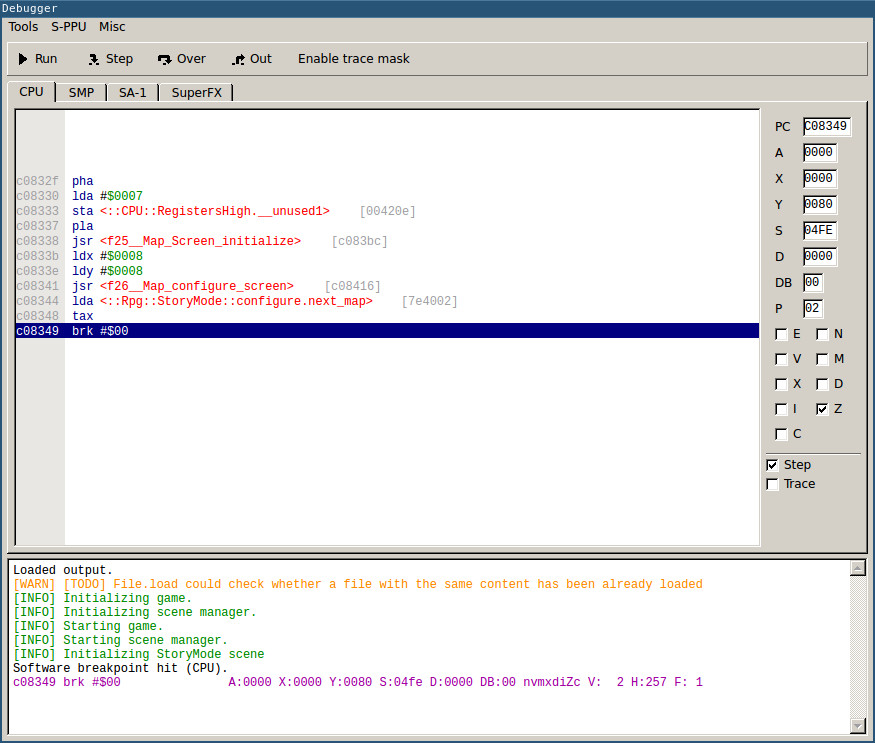
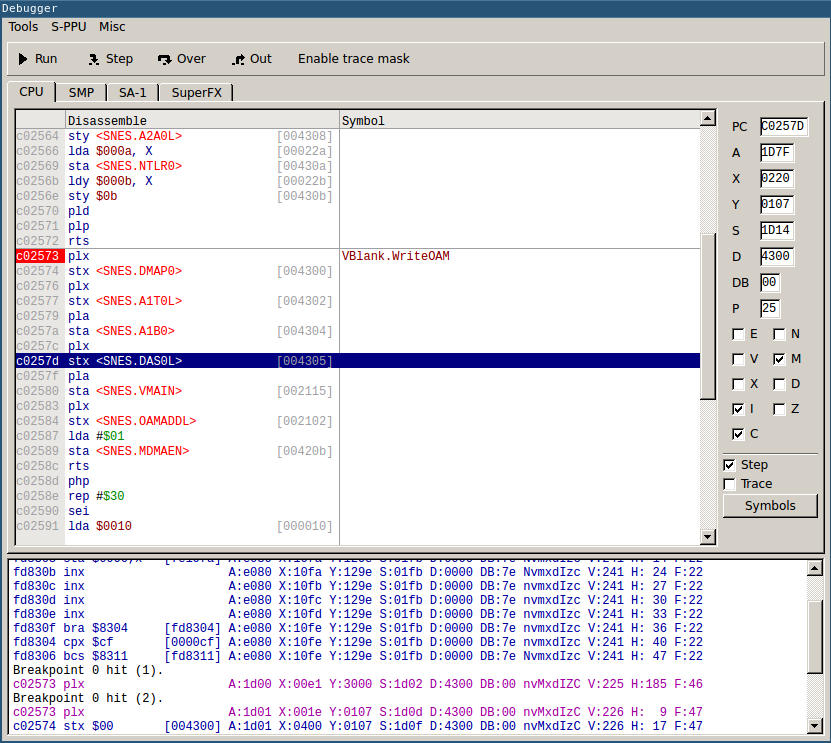
allow to resize columns in disassembler

Changed region(s): [[0.0, 0.0, 1.0, 1.0], [0.2708, 0.0619, 0.5114, 0.0929], [0.3309, 0.681, 0.3911, 0.712]]

diff --git a/bsnes/ui-qt/debugger/disassembler/disassemblerview.cpp b/bsnes/ui-qt/debugger/disassembler/disassemblerview.cpp
@@ -3,6 +3,7 @@
 // ------------------------------------------------------------------------
 DisassemblerView::DisassemblerView(DisasmProcessor *processor) : hasValidAddress(false), processor(processor) {
   setFont(QFont(Style::Monospace));
+  setMouseTracking(true);
 
   _addressAreaColor = this->palette().alternateBase().color();
   _selectionColor = this->palette().highlight().color();
@@ -17,10 +18,13 @@ DisassemblerView::DisassemblerView(DisasmProcessor *processor) : hasValidAddress
 void DisassemblerView::init() {
   verticalScrollBar()->setValue(0);
 
+  mouseState = NO_STATE;
   emptyRowsAround = 5;
   currentRangeStartAddress = 0;
   currentRangeEndAddress = 0;
   currentAddress = 0;
+  mouseX = 0;
+  mouseY = 0;
 }
 
 // ------------------------------------------------------------------------
@@ -29,10 +33,12 @@ void DisassemblerView::setFont(const QFont &font) {
 
   charWidth = fontMetrics().width(QLatin1Char('2'));
   charHeight = fontMetrics().height() + 1;
+  charPadding = charWidth / 2;
+  headerHeight = charHeight + 3;
   lineOffset = 3;
-  addressAreaSize = charWidth * 6 + charWidth;
-  opcodeAreaLeft = addressAreaSize + charWidth;
-  commentAreaLeft = opcodeAreaLeft + 70 * charWidth;
+
+  columnSizes[0] = charWidth * 6 + charWidth;
+  columnSizes[1] = columnSizes[0] + 30 * charWidth;
 
   adjust();
   viewport()->update();
@@ -44,6 +50,11 @@ void DisassemblerView::adjust() {
   if (rowsShown == 0) {
     rowsShown = 1;
   }
+
+  columnPositions[0] = 0;
+  columnPositions[1] = columnPositions[0] + columnSizes[0];
+  columnPositions[2] = columnPositions[1] + columnSizes[1];
+  columnSizes[2] = width() - columnPositions[2];
 }
 
 // ------------------------------------------------------------------------
@@ -58,6 +69,7 @@ void DisassemblerView::refresh(uint32_t address) {
 
   updateLines();
   viewport()->update();
+  updateCurrentMousePosition();
 }
 
 // ------------------------------------------------------------------------
@@ -116,31 +128,128 @@ void DisassemblerView::resizeEvent(QResizeEvent *) {
 }
 
 // ------------------------------------------------------------------------
+void DisassemblerView::toggleBreakpoint(uint32_t address) {
+  int32_t breakpoint = breakpointEditor->indexOfBreakpointExec(address, processor->getBreakpointBusName());
+
+  if (breakpoint >= 0) {
+    breakpointEditor->removeBreakpoint(breakpoint);
+  } else {
+    breakpointEditor->addBreakpoint(nall::hex(address), "x", processor->getBreakpointBusName());
+  }
+}
+
+// ------------------------------------------------------------------------
+void DisassemblerView::mouseReleaseEvent(QMouseEvent *event) {
+  switch (mouseState) {
+  case STATE_RESIZING_COLUMN:
+    mouseState = STATE_RESIZE_COLUMN;
+    mouseMoveEvent(event);
+    break;
+  }
+}
+
+// ------------------------------------------------------------------------
 void DisassemblerView::mousePressEvent(QMouseEvent * event) {
-  const QPoint pos = event->pos();
-  int32_t row = ((pos.y() - lineOffset + charHeight) / charHeight);
+  bool left = event->button() & Qt::LeftButton;
 
-  if (row < 0 || row >= lines.size()) {
-    return;
-  }
-
-  const DisassemblerLine &line = lines[row];
-  if (line.isEmpty()) {
-    return;
-  }
-
-  if (pos.x() < addressAreaSize && line.hasAddress()) {
-    int32_t breakpoint = breakpointEditor->indexOfBreakpointExec(line.address, processor->getBreakpointBusName());
-
-    if (breakpoint >= 0) {
-      breakpointEditor->removeBreakpoint(breakpoint);
-    } else {
-      breakpointEditor->addBreakpoint(nall::hex(line.address), "x", processor->getBreakpointBusName());
+  switch (mouseState) {
+  case STATE_RESIZE_COLUMN:
+    if (left) {
+      mouseState = STATE_RESIZING_COLUMN;
+      mouseStateValue2 = columnSizes[mouseStateValue];
     }
+    break;
+
+  case STATE_TOGGLE_BREAKPOINT:
+    if (left) {
+      toggleBreakpoint(mouseStateValue);
+    }
+    break;
   }
 
   viewport()->update();
 }
+
+// ------------------------------------------------------------------------
+void DisassemblerView::mouseMoveEvent(QMouseEvent *e) {
+  switch (mouseState) {
+  case STATE_RESIZING_COLUMN:
+    {
+      int32_t newSize = mouseStateValue2 + (e->x() - mouseX);
+      if (newSize < 10) {
+        newSize= 10;
+      }
+
+      columnSizes[mouseStateValue] = newSize;
+      adjust();
+      viewport()->update();
+    }
+    break;
+
+  default:
+    mouseX = e->x();
+    mouseY = e->y();
+    updateCurrentMousePosition();
+  }
+}
+
+// ------------------------------------------------------------------------
+void DisassemblerView::updateCurrentMousePosition() {
+  MouseState oldState = mouseState;
+  int32_t row = (mouseY - lineOffset + charHeight) / charHeight;
+
+  mouseState = NO_STATE;
+
+  if (mouseY < headerHeight) {
+    for (uint32_t i=1; i<NUM_COLUMNS; i++) {
+      if (mouseX < columnPositions[i] - 5 || mouseX > columnPositions[i] + 5) {
+        continue;
+      }
+
+      mouseState = STATE_RESIZE_COLUMN;
+      mouseStateValue = i - 1;
+      break;
+    }
+  } else if (row > 0 && row <= lines.size()) {
+    const DisassemblerLine &line = lines[row];
+
+    if (!line.isEmpty()) {
+      if (mouseX < columnSizes[COLUMN_ADDRESS]) {
+        if (line.hasAddress()) {
+          mouseState = STATE_TOGGLE_BREAKPOINT;
+          mouseStateValue = line.address;
+        }
+      } else if (mouseX >= columnPositions[COLUMN_COMMENT]) {
+        mouseState = STATE_SET_COMMENT;
+        mouseStateValue = line.address;
+      }
+    }
+  }
+
+  if (mouseState != oldState) {
+    switch (mouseState) {
+    case STATE_RESIZE_COLUMN:
+      setCursor(Qt::SplitHCursor);
+      break;
+
+    case STATE_TOGGLE_BREAKPOINT:
+      setCursor(Qt::PointingHandCursor);
+      break;
+
+    case NO_STATE:
+    default:
+      unsetCursor();
+      break;
+    }
+  }
+}
+
+#define SET_CLIPPING(region) \
+  painter.setClipping(true); \
+  painter.setClipRegion(QRect(columnPositions[region], 0, columnSizes[region], height()));
+
+#define NO_CLIPPING() \
+  painter.setClipping(false)
 
 // ------------------------------------------------------------------------
 void DisassemblerView::paintOpcode(QPainter &painter, const DisassemblerLine &line, int y) {
@@ -148,6 +257,8 @@ void DisassemblerView::paintOpcode(QPainter &painter, const DisassemblerLine &li
 
   QColor addressColor, opColor, textColor;
   QColor paramImmediateColor, paramAddressColor, paramSymbolColor;
+
+  NO_CLIPPING();
 
   if (line.address == currentAddress) {
     painter.fillRect(QRect(0, y - charHeight + lineOffset, viewport()->width(), charHeight), _selectionColor);
@@ -168,7 +279,7 @@ void DisassemblerView::paintOpcode(QPainter &painter, const DisassemblerLine &li
   }
 
   if (breakpointEditor->indexOfBreakpointExec(line.address, processor->getBreakpointBusName()) >= 0) {
-    painter.fillRect(QRect(0, y - charHeight + lineOffset, addressAreaSize, charHeight), _breakpointColor);
+    painter.fillRect(QRect(0, y - charHeight + lineOffset, columnSizes[COLUMN_ADDRESS], charHeight), _breakpointColor);
     addressColor = Qt::white;
   }
 
@@ -179,15 +290,18 @@ void DisassemblerView::paintOpcode(QPainter &painter, const DisassemblerLine &li
     painter.setPen(Qt::gray);
     painter.drawLine(0, y - charHeight + lineOffset, width(), y - charHeight + lineOffset);
     painter.setPen(paramAddressColor);
-    painter.drawText(commentAreaLeft + charWidth / 2, y, currentRow.name);
+    SET_CLIPPING(COLUMN_COMMENT);
+    painter.drawText(columnPositions[COLUMN_COMMENT] + charPadding, y, currentRow.name);
   }
 
-  int x = opcodeAreaLeft;
+  int x = columnPositions[1] + charPadding;
   address = QString("%1").arg(line.address, 6, 16, QChar('0'));
 
+  SET_CLIPPING(COLUMN_ADDRESS);
   painter.setPen(addressColor);
   painter.drawText(0, y, address);
 
+  SET_CLIPPING(COLUMN_DISASM);
   painter.setPen(opColor);
   painter.drawText(x, y, line.text);
 
@@ -264,14 +378,15 @@ void DisassemblerView::paintOpcode(QPainter &painter, const DisassemblerLine &li
     }
 
     if (directComment.length()) {
-      x += 5 * charWidth;
-      int newX = opcodeAreaLeft + 25 * charWidth;
-      if (newX < x) {
-        newX = x;
+      x += 2 * charWidth;
+      uint32_t right = columnPositions[COLUMN_DISASM + 1] - (directComment.length() + 1) * charWidth;
+
+      if (x < right) {
+        x = right;
       }
 
       painter.setPen(Qt::gray);
-      painter.drawText(newX, y, directComment);
+      painter.drawText(x, y, directComment);
     }
   }
 }
@@ -295,14 +410,33 @@ int DisassemblerView::renderValue(QPainter &painter, int x, int y, uint8_t type,
 }
 
 // ------------------------------------------------------------------------
+void DisassemblerView::paintHeader(QPainter &painter) {
+  painter.fillRect(0, 0, width(), headerHeight, _addressAreaColor);
+
+  painter.setPen(Qt::gray);
+  painter.drawLine(0, headerHeight, width(), headerHeight);
+
+  for (uint8_t i=1; i<NUM_COLUMNS; i++) {
+    painter.drawLine(columnPositions[i], 0, columnPositions[i], headerHeight);
+  }
+
+  painter.setPen(Qt::black);
+  SET_CLIPPING(1);
+  painter.drawText(columnPositions[1] + charPadding, headerHeight - charPadding, "Disassemble");
+  SET_CLIPPING(2);
+  painter.drawText(columnPositions[2] + charPadding, headerHeight - charPadding, "Symbol");
+  NO_CLIPPING();
+}
+
+// ------------------------------------------------------------------------
 void DisassemblerView::paintEvent(QPaintEvent *event) {
   QPainter painter(viewport());
 
   painter.fillRect(event->rect(), viewport()->palette().color(QPalette::Base));
-  painter.fillRect(QRect(0, 0, addressAreaSize, height()), _addressAreaColor);
+  painter.fillRect(QRect(0, 0, columnSizes[COLUMN_ADDRESS], height()), _addressAreaColor);
 
   painter.setPen(Qt::gray);
-  painter.drawLine(commentAreaLeft, event->rect().top(), commentAreaLeft, height());
+  painter.drawLine(columnPositions[2], event->rect().top(), columnPositions[2], height());
 
   int y = 0;
   for (uint32_t index=0; index<lines.size(); index++, y+=charHeight) {
@@ -317,4 +451,7 @@ void DisassemblerView::paintEvent(QPaintEvent *event) {
       break;
     }
   }
+
+  NO_CLIPPING();
+  paintHeader(painter);
 }

diff --git a/bsnes/ui-qt/debugger/disassembler/disassemblerview.moc.hpp b/bsnes/ui-qt/debugger/disassembler/disassemblerview.moc.hpp
@@ -3,6 +3,21 @@
 class DisassemblerView : public QAbstractScrollArea {
   Q_OBJECT
 
+  enum MouseState {
+    NO_STATE,
+    STATE_TOGGLE_BREAKPOINT,
+    STATE_SET_COMMENT,
+    STATE_RESIZE_COLUMN,
+    STATE_RESIZING_COLUMN
+  };
+
+  enum {
+    COLUMN_ADDRESS,
+    COLUMN_DISASM,
+    COLUMN_COMMENT,
+    NUM_COLUMNS = 3
+  };
+
 public:
   DisassemblerView(class DisasmProcessor *processor);
 
@@ -14,6 +29,10 @@ protected:
   void paintEvent(QPaintEvent *event);
   void resizeEvent(QResizeEvent *);
   void mousePressEvent(QMouseEvent * event);
+  void mouseReleaseEvent(QMouseEvent *e);
+  void mouseMoveEvent(QMouseEvent *e);
+  void toggleBreakpoint(uint32_t address);
+  void updateCurrentMousePosition();
 
   void updateLines();
   void updateLineRange();
@@ -25,6 +44,7 @@ private slots:
   void onScroll();
 
 private:
+  void paintHeader(QPainter &painter);
   void paintOpcode(QPainter &painter, const DisassemblerLine &line, int y);
   int renderValue(QPainter &painter, int x, int y, uint8_t type, uint8_t size, uint32_t value);
 
@@ -35,10 +55,9 @@ private:
 
   uint32_t charWidth;
   uint32_t charHeight;
+  uint32_t charPadding;
   uint32_t rowsShown;
-  uint32_t addressAreaSize;
-  uint32_t opcodeAreaLeft;
-  uint32_t commentAreaLeft;
+  uint32_t headerHeight;
 
   uint32_t emptyRowsAround;
 
@@ -46,7 +65,15 @@ private:
   uint32_t currentRangeEndAddress;
   uint32_t currentRangeLineNumbers;
 
+  uint32_t columnSizes[NUM_COLUMNS];
+  uint32_t columnPositions[NUM_COLUMNS];
   ::nall::linear_vector<DisassemblerLine> lines;
+
+  MouseState mouseState;
+  uint32_t mouseStateValue;
+  uint32_t mouseStateValue2;
+  int32_t mouseX;
+  int32_t mouseY;
 
   QColor _addressAreaColor;
   QColor _breakpointColor;
